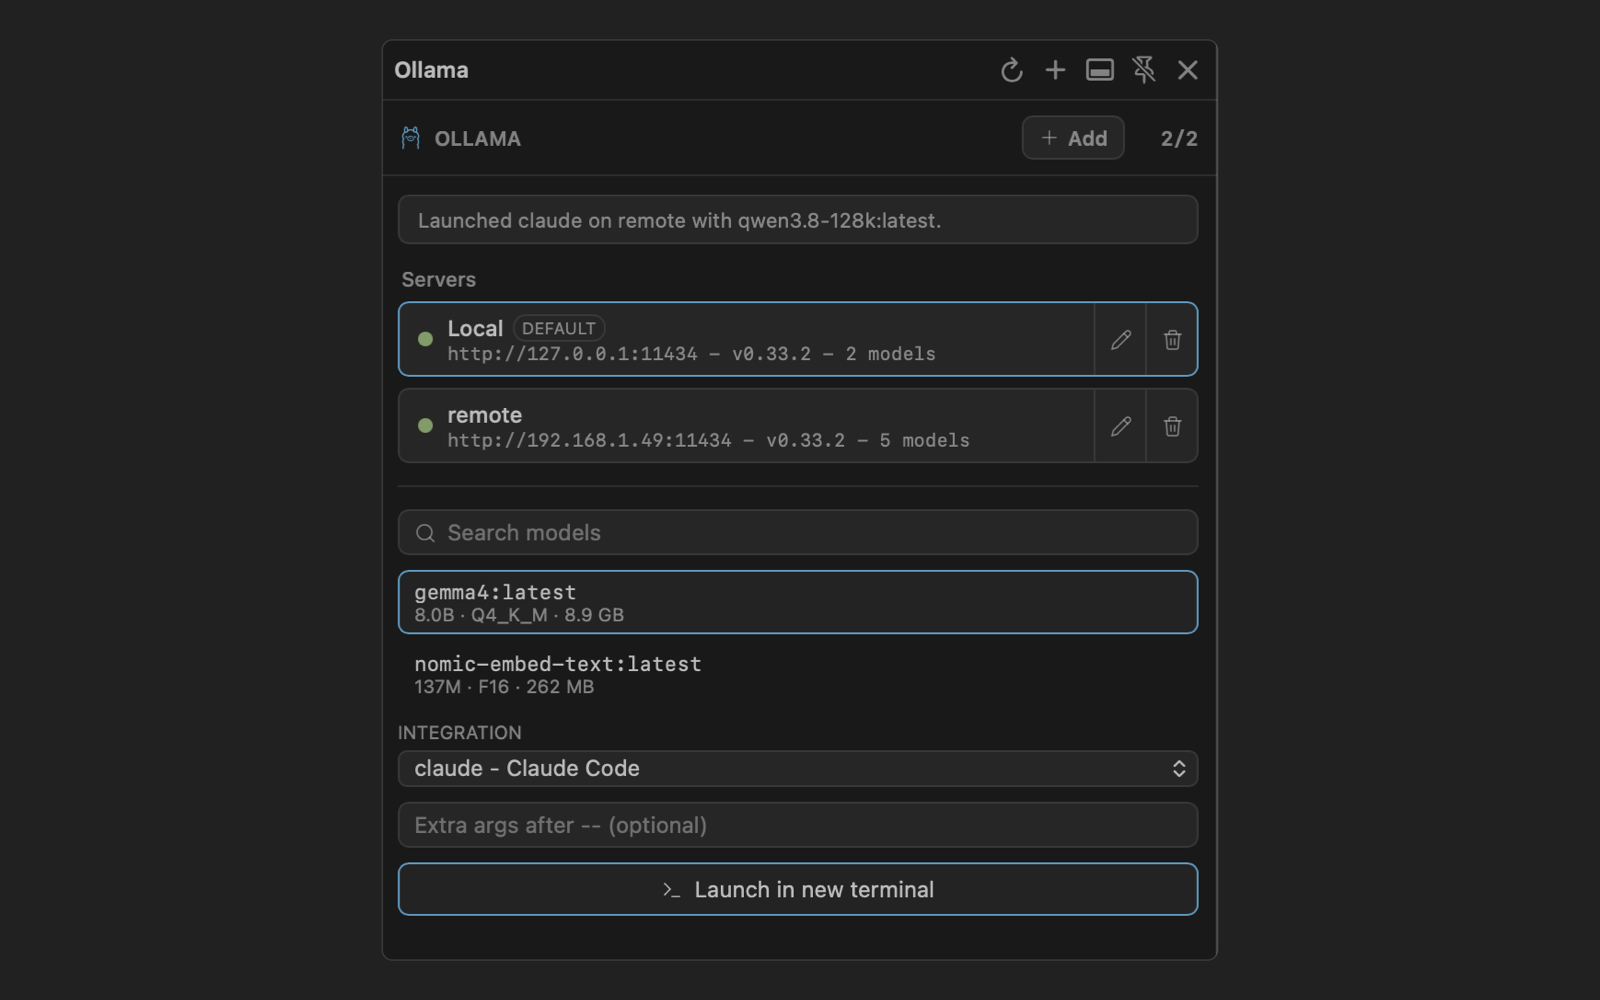
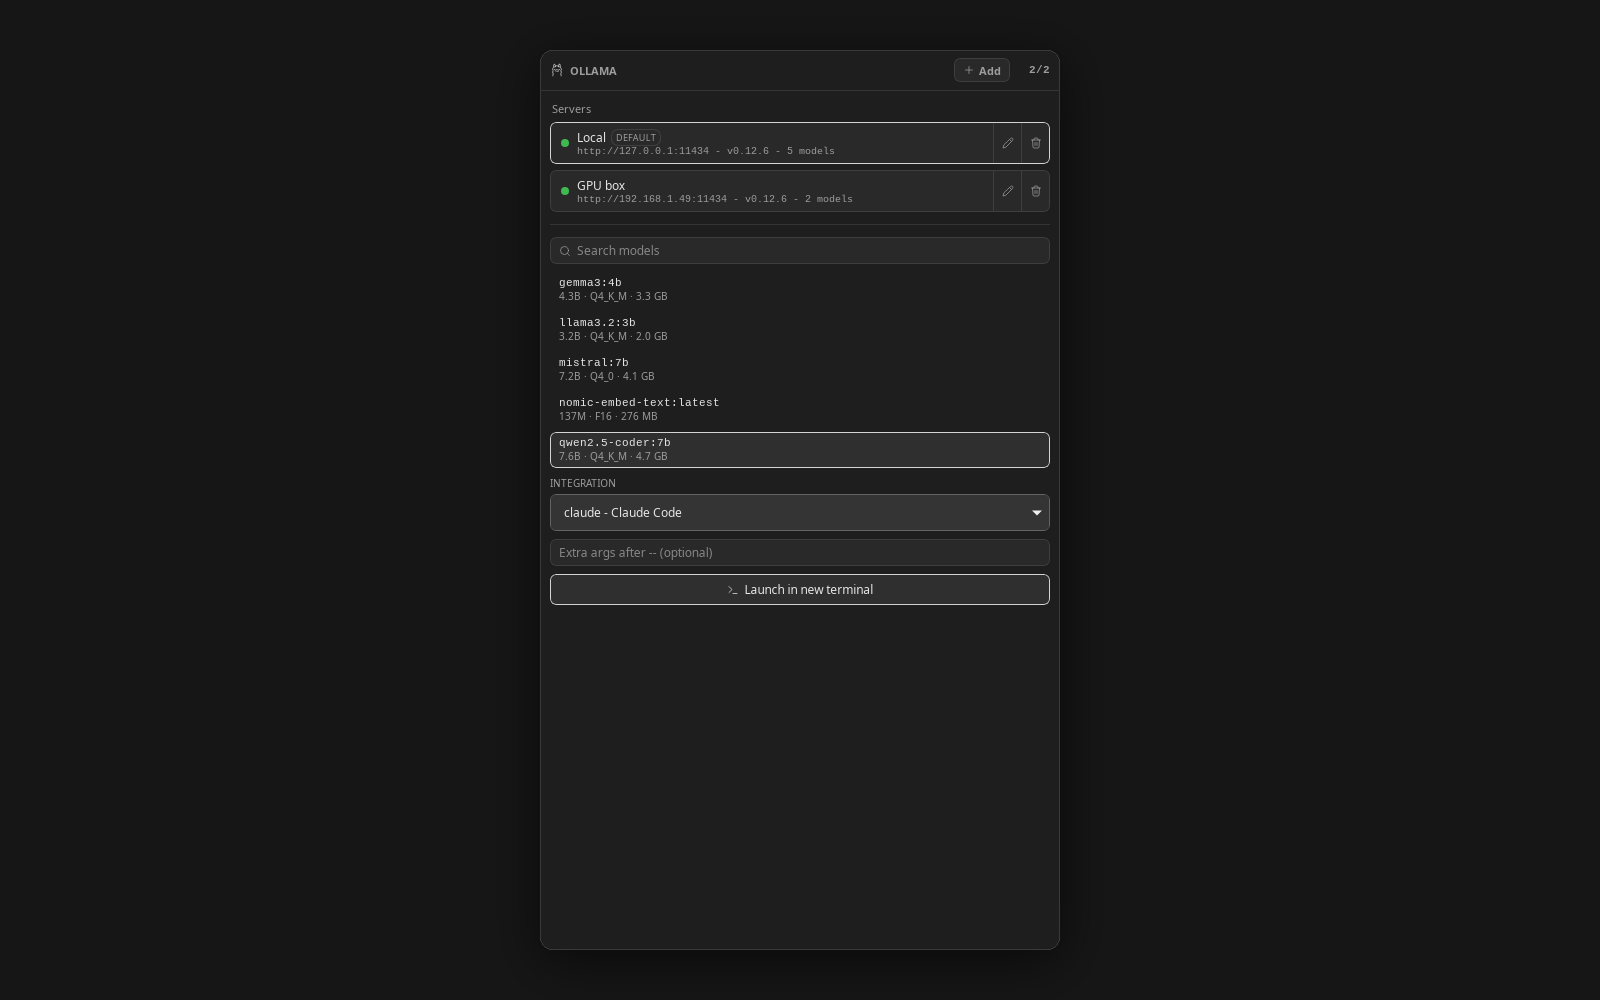
ollama 0.1.2 (#16)
* harness: ollama listing case

* ollama 0.1.2: neutral listing screenshot, credits

diff --git a/tools/harness/fixtures/ollama.js b/tools/harness/fixtures/ollama.js
@@ -1,0 +1,55 @@
+// Sample Ollama servers and models for the ollama panel: curl and `ollama launch --help` served through atur.exec.
+(() => {
+  const h = window.__harness;
+  const servers = [
+    { id: "srv_local", name: "Local", url: "http://127.0.0.1:11434", createdAt: Date.now() },
+    { id: "srv_gpu", name: "GPU box", url: "http://192.168.1.49:11434", createdAt: Date.now() },
+  ];
+  const GB = 1024 ** 3;
+  const tags = {
+    "http://127.0.0.1:11434": [
+      { name: "llama3.2:3b", size: 2.0 * GB, details: { parameter_size: "3.2B", quantization_level: "Q4_K_M" } },
+      { name: "qwen2.5-coder:7b", size: 4.7 * GB, details: { parameter_size: "7.6B", quantization_level: "Q4_K_M" } },
+      { name: "gemma3:4b", size: 3.3 * GB, details: { parameter_size: "4.3B", quantization_level: "Q4_K_M" } },
+      { name: "nomic-embed-text:latest", size: 0.27 * GB, details: { parameter_size: "137M", quantization_level: "F16" } },
+      { name: "mistral:7b", size: 4.1 * GB, details: { parameter_size: "7.2B", quantization_level: "Q4_0" } },
+    ],
+    "http://192.168.1.49:11434": [
+      { name: "qwen2.5-coder:32b", size: 19.9 * GB, details: { parameter_size: "32.8B", quantization_level: "Q4_K_M" } },
+      { name: "llama3.3:70b", size: 42.5 * GB, details: { parameter_size: "70.6B", quantization_level: "Q4_K_M" } },
+    ],
+  };
+  const help = [
+    "Launch an integration with Ollama",
+    "",
+    "Supported integrations:",
+    "  claude    Claude Code",
+    "  codex     Codex",
+    "  opencode  OpenCode",
+    "  droid     Droid",
+    "",
+    "Examples:",
+    "  ollama launch claude",
+    "",
+  ].join("\n");
+
+  h.base.storage.set("servers", servers);
+  h.base.storage.set("defaults", { serverId: "srv_local", agent: "claude", extraArgs: "", modelsByServer: { srv_local: "qwen2.5-coder:7b", srv_gpu: "qwen2.5-coder:32b" } });
+  h.set("exec", async (argv) => {
+    const ok = (stdout) => ({ stdout, stderr: "", exitCode: 0 });
+    if (argv[0] === "ollama") return ok(help);
+    const url = String(argv[argv.length - 1]);
+    const base = Object.keys(tags).find((b) => url.startsWith(b));
+    if (!base) return { stdout: "", stderr: "", exitCode: 7 };
+    if (url.endsWith("/api/version")) return ok(JSON.stringify({ version: "0.12.6" }));
+    if (url.endsWith("/api/tags")) return ok(JSON.stringify({ models: tags[base] }));
+    return ok("");
+  });
+
+  const sleep = (ms) => new Promise((resolve) => setTimeout(resolve, ms));
+  window.addEventListener("load", async () => {
+    for (let i = 0; i < 100 && document.querySelectorAll("button").length < 4; i += 1) await sleep(100);
+    await sleep(1500);
+    window.__ready = true;
+  });
+})();

diff --git a/extensions/ollama/README.md b/extensions/ollama/README.md
@@ -76,3 +76,7 @@ npm test        # parser + launch-command unit tests
 
 Load the checkout with **Load Unpacked** in Settings → Extensions, then press **Reload**
 after each rebuild.
+
+## Credits
+
+Originally published in muxy-app/extensions (MIT) by Eric Marchand. Maintained by Atur Terminal.
